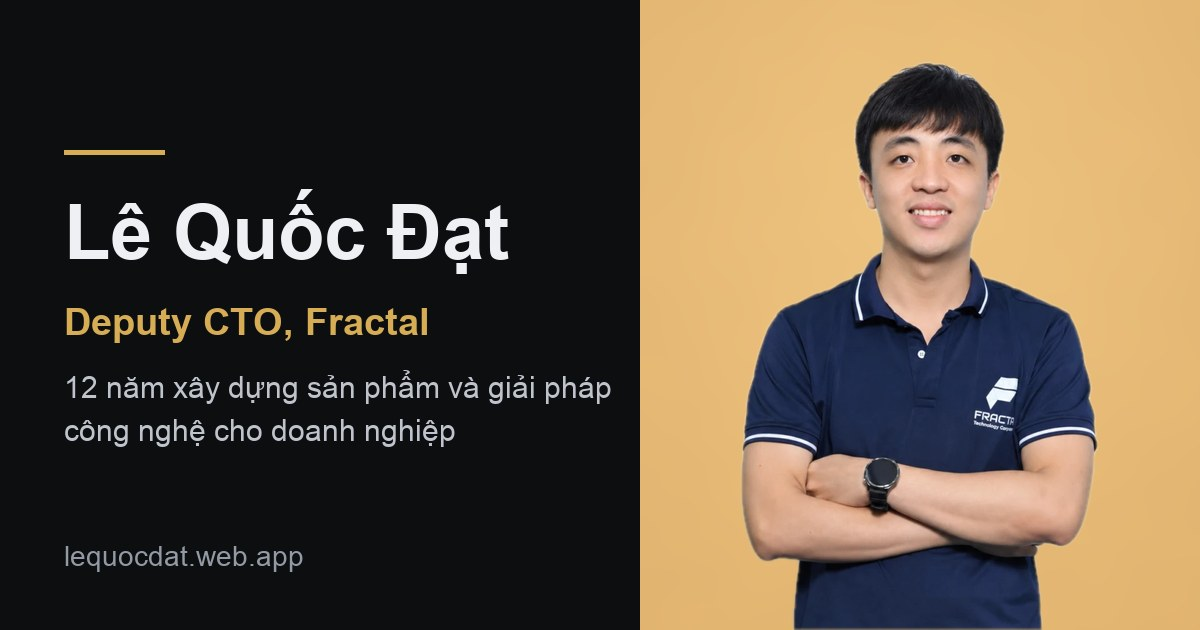
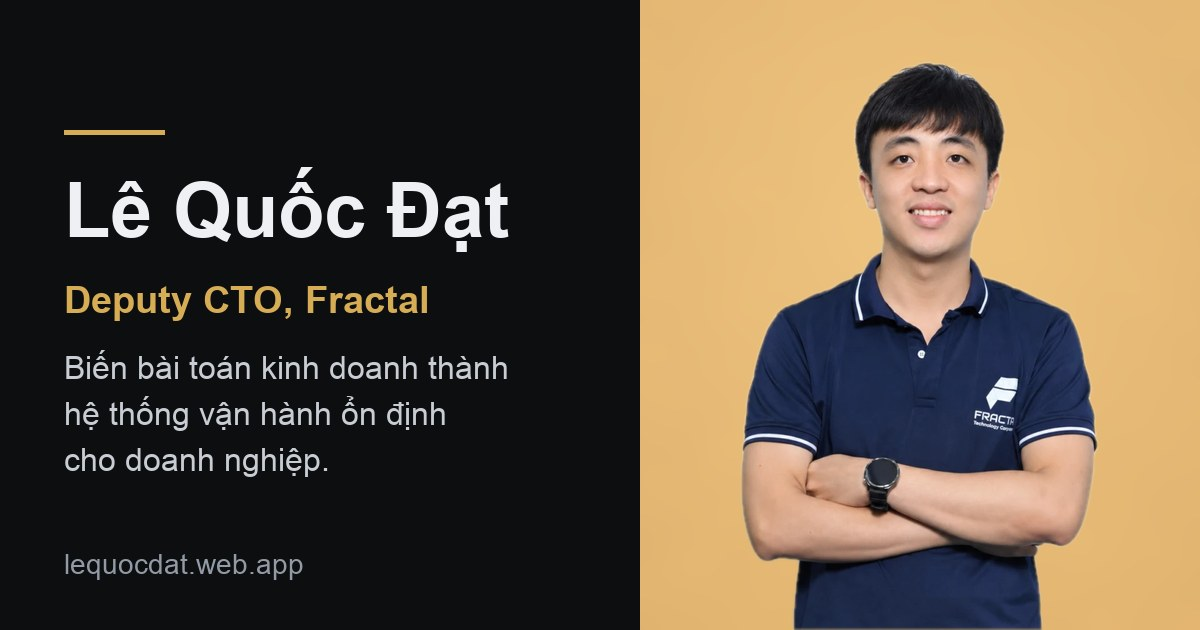
Hide phone/Zalo behind reveal buttons, form delivery hook, refreshed share images

Changed region(s): [[0.0308, 0.4524, 0.5242, 0.754], [0.0617, 0.181, 0.4317, 0.4524], [0.0308, 0.8746, 0.2775, 0.9349]]

diff --git a/main.js b/main.js
@@ -109,6 +109,10 @@ if (!reduce) {
 /* ---------- Contact form: validate, then open mail client ---------- */
 const form = document.getElementById('contactForm');
 const status = document.getElementById('formStatus');
+/* Contact form delivery. Paste a free Web3Forms access key (web3forms.com) to send messages
+   straight to your inbox. While empty, the form falls back to opening the visitor's email app. */
+const FORM_ACCESS_KEY = '';
+
 const EN = document.documentElement.lang === 'en';
 const T = EN
   ? {
@@ -117,6 +121,9 @@ const T = EN
       message: 'Your message needs at least 10 characters.',
       subject: 'Collaboration inquiry',
       status: 'Your email app is opening with the message prefilled.',
+      sending: 'Sending...',
+      sent: 'Thank you. Your message has been sent and I will reply soon.',
+      failed: 'Sorry, the message could not be sent. Please email me directly.',
     }
   : {
       name: 'Vui lòng nhập họ tên.',
@@ -124,6 +131,9 @@ const T = EN
       message: 'Nội dung cần ít nhất 10 ký tự.',
       subject: 'Trao đổi hợp tác',
       status: 'Ứng dụng email của bạn đang được mở với nội dung đã điền sẵn.',
+      sending: 'Đang gửi...',
+      sent: 'Cảm ơn bạn. Tin nhắn đã được gửi, tôi sẽ phản hồi sớm.',
+      failed: 'Rất tiếc, chưa gửi được tin nhắn. Bạn vui lòng gửi email trực tiếp giúp tôi.',
     };
 const rules = {
   name: (v) => (v.trim() ? '' : T.name),
@@ -145,16 +155,51 @@ function check(field) {
 }
 Object.keys(rules).forEach((f) => form.elements[f].addEventListener('blur', () => check(f)));
 
-form.addEventListener('submit', (e) => {
+form.addEventListener('submit', async (e) => {
   e.preventDefault();
   const ok = Object.keys(rules).map(check).every(Boolean);
+  status.classList.remove('is-error');
   if (!ok) {
     status.textContent = '';
     form.querySelector('.has-error input, .has-error textarea')?.focus();
     return;
   }
   const d = Object.fromEntries(new FormData(form));
+  if (d.botcheck) { status.textContent = T.sent; form.reset(); return; }
   const subject = `${T.subject}: ${d.name}${d.company ? ` (${d.company})` : ''}`;
+
+  if (FORM_ACCESS_KEY) {
+    const submitBtn = form.querySelector('button[type="submit"]');
+    submitBtn.disabled = true;
+    status.textContent = T.sending;
+    try {
+      const res = await fetch('https://api.web3forms.com/submit', {
+        method: 'POST',
+        headers: { 'Content-Type': 'application/json', Accept: 'application/json' },
+        body: JSON.stringify({
+          access_key: FORM_ACCESS_KEY,
+          subject,
+          from_name: d.name,
+          name: d.name,
+          email: d.email,
+          company: d.company || '-',
+          message: d.message,
+          botcheck: '',
+        }),
+      });
+      const out = await res.json();
+      if (!res.ok || !out.success) throw new Error(out.message || 'failed');
+      status.textContent = T.sent;
+      form.reset();
+    } catch (err) {
+      status.classList.add('is-error');
+      status.textContent = T.failed;
+    } finally {
+      submitBtn.disabled = false;
+    }
+    return;
+  }
+
   const body = `${d.message}\n\n---\n${d.name}\n${d.email}${d.company ? `\n${d.company}` : ''}`;
   window.location.href = `mailto:dat.le@fractal.vn?subject=${encodeURIComponent(subject)}&body=${encodeURIComponent(body)}`;
   status.textContent = T.status;
@@ -162,3 +207,26 @@ form.addEventListener('submit', (e) => {
 
 /* ---------- Footer year ---------- */
 document.getElementById('year').textContent = new Date().getFullYear();
+
+
+/* ---------- Reveal phone / Zalo on demand (kept out of the static HTML) ---------- */
+document.querySelectorAll('.reveal-contact').forEach((btn) => {
+  btn.addEventListener('click', () => {
+    const n = atob(btn.dataset.v);
+    const a = document.createElement('a');
+    let text;
+    if (btn.dataset.kind === 'tel') {
+      a.href = `tel:+84${n.slice(1)}`;
+      text = `+84 ${n.slice(1, 4)} ${n.slice(4, 7)} ${n.slice(7)}`;
+    } else {
+      a.href = `https://zalo.me/${n}`;
+      a.target = '_blank';
+      a.rel = 'noopener';
+      text = `${n.slice(0, 4)} ${n.slice(4, 7)} ${n.slice(7)}`;
+    }
+    const label = btn.querySelector('small').textContent;
+    a.innerHTML = `${btn.querySelector('i').outerHTML}<span><small>${label}</small>${text}</span>`;
+    btn.replaceWith(a);
+    a.focus();
+  });
+});

diff --git a/en/index.html b/en/index.html
@@ -11,7 +11,7 @@
   <meta property="og:type" content="profile">
   <meta property="og:title" content="Lê Quốc Đạt | Deputy CTO, Fractal">
   <meta property="og:description" content="12+ years building enterprise products and technology solutions, from embedded systems to technical leadership.">
-  <meta property="og:image" content="https://lequocdat.web.app/assets/og-cover.jpg">
+  <meta property="og:image" content="https://lequocdat.web.app/assets/og-cover-en.jpg">
   <meta property="og:locale" content="en_US">
   <meta property="og:url" content="https://lequocdat.web.app/en/">
   <meta name="twitter:card" content="summary_large_image">
@@ -43,7 +43,6 @@
     "jobTitle": "Deputy CTO",
     "worksFor": { "@type": "Organization", "name": "Fractal Technology Corporation", "url": "https://fractal.vn" },
     "email": "mailto:dat.le@fractal.vn",
-    "telephone": "+84975752737",
     "alumniOf": { "@type": "CollegeOrUniversity", "name": "Posts and Telecommunications Institute of Technology (PTIT)" },
     "knowsAbout": ["Android", "Kotlin", "Flutter", "iOS", "ReactJS", "NodeJS", "Solution Architecture", "Embedded Systems", "Technical Leadership"]
   }
@@ -641,16 +640,10 @@
               </a>
             </li>
             <li>
-              <a href="tel:+84975752737">
-                <i class="ph ph-phone" aria-hidden="true"></i>
-                <span><small>Phone</small>+84 975 752 737</span>
-              </a>
+              <button type="button" class="reveal-contact" data-kind="tel" data-v="MDk3NTc1MjczNw=="><i class="ph ph-phone" aria-hidden="true"></i><span><small>Phone</small>Click to show number</span></button>
             </li>
             <li>
-              <a href="https://zalo.me/0975752737" target="_blank" rel="noopener">
-                <i class="ph ph-chat-circle-dots" aria-hidden="true"></i>
-                <span><small>Zalo</small>0975 752 737</span>
-              </a>
+              <button type="button" class="reveal-contact" data-kind="zalo" data-v="MDk3NTc1MjczNw=="><i class="ph ph-chat-circle-dots" aria-hidden="true"></i><span><small>Zalo</small>Click to show number</span></button>
             </li>
             <li>
               <a href="https://fractal.vn" target="_blank" rel="noopener">
@@ -682,6 +675,7 @@
             <p class="field__help" id="h-msg">Goals, current stage and desired timeline.</p>
             <p class="field__error" id="e-msg"></p>
           </div>
+          <input type="text" name="botcheck" class="sr-only" tabindex="-1" autocomplete="off" aria-hidden="true">
           <button type="submit" class="btn btn--primary btn--block">Send message <i class="ph ph-paper-plane-tilt" aria-hidden="true"></i></button>
           <p class="form__status" id="formStatus" role="status"></p>
         </form>

diff --git a/index.html b/index.html
@@ -43,7 +43,6 @@
     "jobTitle": "Phó Giám đốc Kỹ thuật",
     "worksFor": { "@type": "Organization", "name": "Công ty Cổ phần Công nghệ Fractal", "url": "https://fractal.vn" },
     "email": "mailto:dat.le@fractal.vn",
-    "telephone": "+84975752737",
     "alumniOf": { "@type": "CollegeOrUniversity", "name": "Học viện Công nghệ Bưu chính Viễn thông (PTIT)" },
     "knowsAbout": ["Android", "Kotlin", "Flutter", "iOS", "ReactJS", "NodeJS", "Solution Architecture", "Embedded Systems", "Technical Leadership"]
   }
@@ -643,16 +642,10 @@
               </a>
             </li>
             <li>
-              <a href="tel:+84975752737">
-                <i class="ph ph-phone" aria-hidden="true"></i>
-                <span><small>Điện thoại</small>+84 975 752 737</span>
-              </a>
+              <button type="button" class="reveal-contact" data-kind="tel" data-v="MDk3NTc1MjczNw=="><i class="ph ph-phone" aria-hidden="true"></i><span><small>Điện thoại</small>Bấm để xem số</span></button>
             </li>
             <li>
-              <a href="https://zalo.me/0975752737" target="_blank" rel="noopener">
-                <i class="ph ph-chat-circle-dots" aria-hidden="true"></i>
-                <span><small>Zalo</small>0975 752 737</span>
-              </a>
+              <button type="button" class="reveal-contact" data-kind="zalo" data-v="MDk3NTc1MjczNw=="><i class="ph ph-chat-circle-dots" aria-hidden="true"></i><span><small>Zalo</small>Bấm để xem số</span></button>
             </li>
             <li>
               <a href="https://fractal.vn" target="_blank" rel="noopener">
@@ -684,6 +677,7 @@
             <p class="field__help" id="h-msg">Mục tiêu, giai đoạn hiện tại và thời gian mong muốn.</p>
             <p class="field__error" id="e-msg"></p>
           </div>
+          <input type="text" name="botcheck" class="sr-only" tabindex="-1" autocomplete="off" aria-hidden="true">
           <button type="submit" class="btn btn--primary btn--block">Gửi tin nhắn <i class="ph ph-paper-plane-tilt" aria-hidden="true"></i></button>
           <p class="form__status" id="formStatus" role="status"></p>
         </form>

diff --git a/styles.css b/styles.css
@@ -1020,13 +1020,17 @@ ul, ol { margin: 0; padding: 0; list-style: none; }
 .contact__title { font-size: clamp(32px, 4.2vw, 52px); font-weight: 700; letter-spacing: -0.035em; max-width: 16ch; }
 
 .channels { display: grid; gap: 10px; margin-top: 36px; }
-.channels a {
+.channels a,
+.channels .reveal-contact {
   display: grid; grid-template-columns: 44px 1fr; gap: 14px; align-items: center;
   padding: 12px 16px 12px 12px; border-radius: var(--r-card);
   border: 1px solid var(--border); background: var(--surface);
   transition: border-color 0.2s, transform 0.3s var(--ease);
 }
-.channels a:hover { border-color: var(--accent); transform: translateX(3px); }
+.channels .reveal-contact { width: 100%; text-align: left; font: inherit; color: inherit; cursor: pointer; }
+.channels a:hover,
+.channels .reveal-contact:hover { border-color: var(--accent); transform: translateX(3px); }
+.channels .reveal-contact span { color: var(--accent-text); }
 .channels i {
   display: grid; place-items: center; width: 44px; height: 44px; border-radius: var(--r-ctl);
   background: var(--accent-soft); color: var(--accent-text); font-size: 20px;
@@ -1063,6 +1067,7 @@ ul, ol { margin: 0; padding: 0; list-style: none; }
 [data-theme="light"] .field.has-error input, [data-theme="light"] .field.has-error textarea { border-color: #c62a2f; }
 .form__status { font-size: 14px; color: var(--accent-text); }
 .form__status:empty { display: none; }
+.form__status.is-error { color: #e5484d; }
 
 @media (max-width: 860px) { .contact__grid { grid-template-columns: 1fr; } }
 
